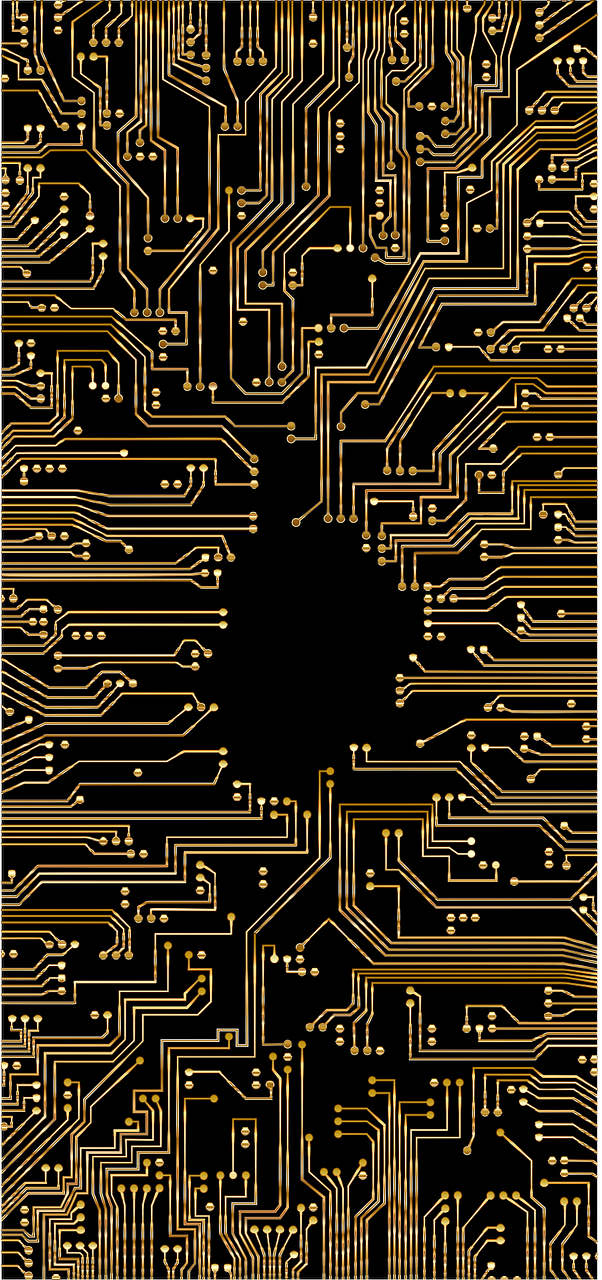
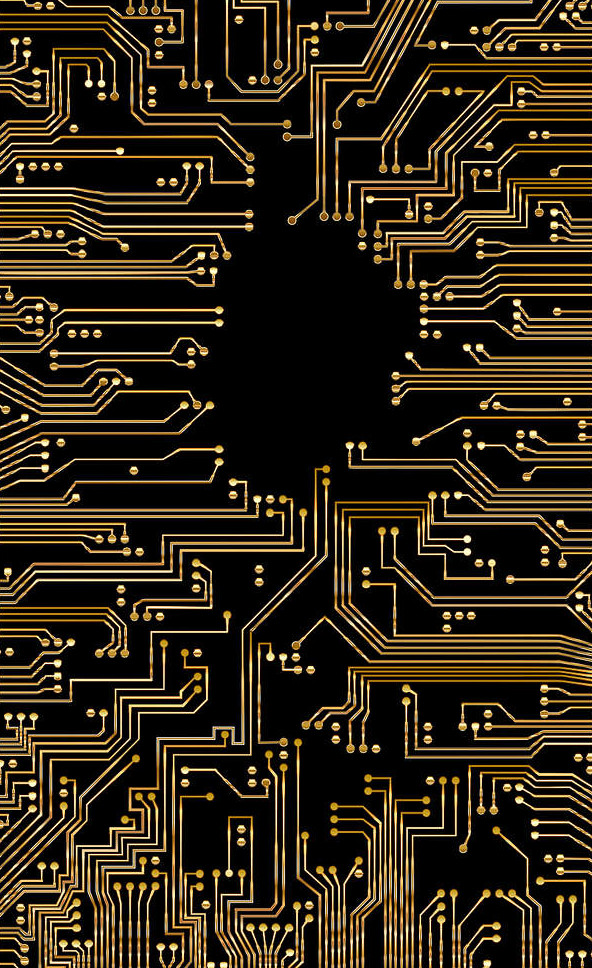
Diseño portada

diff --git a/assests/css/style.css b/assests/css/style.css
@@ -195,13 +195,14 @@ section:nth-of-type(1) {
   display: flex;
   flex-wrap: wrap;
   justify-content: space-between;
+  max-height: 100vh;
   min-height: 100vh;
   align-items: center;
   flex-direction: column;
   align-content: center;
   padding: 10px;
   box-sizing: border-box;
-  background: var(--black-color) url(../images/circuitos.jpg) center center no-repeat;
+  background: var(--black-color) url(https://bosque.gwannon.com/assests/images/circuitos.jpg) bottom center no-repeat;
   background-size: cover;
 
 }
